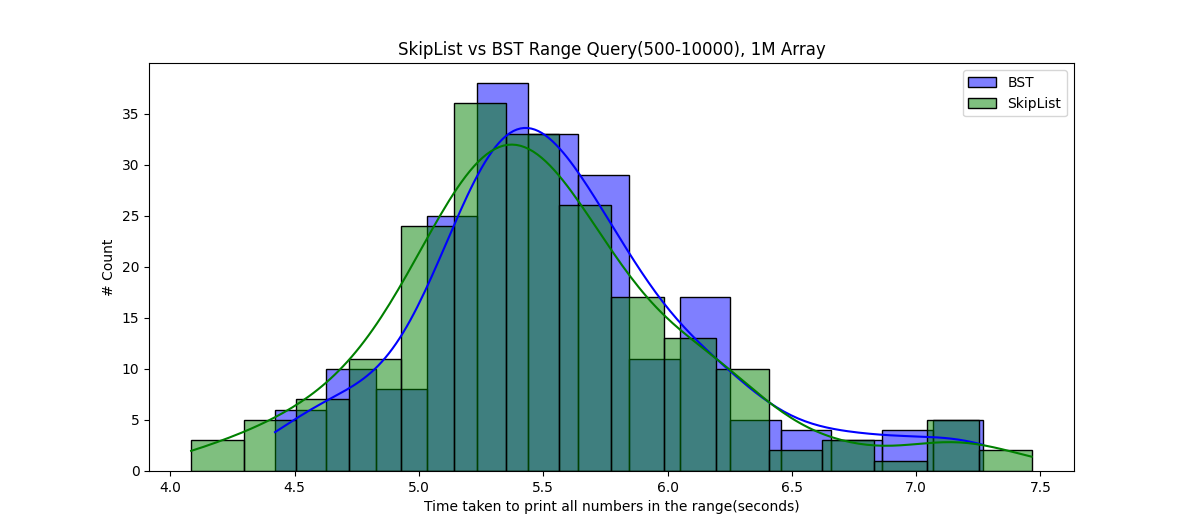
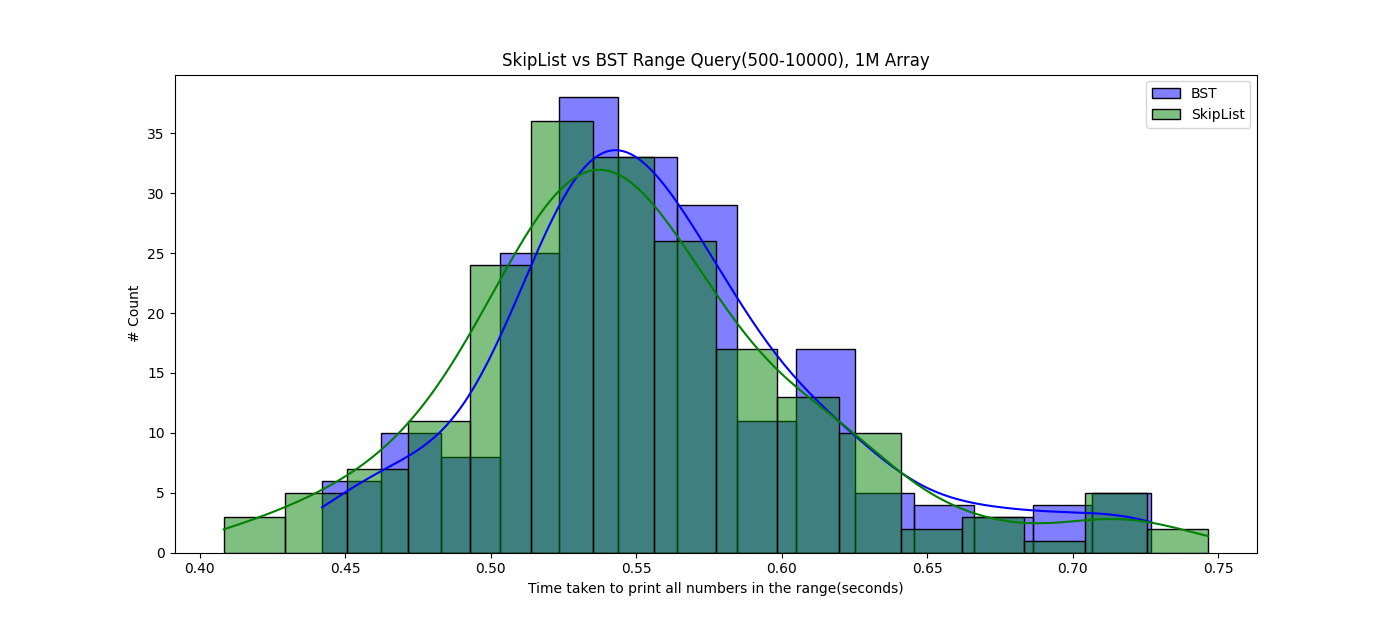
range query updated to division by 1e9 instead of 1e8(nanoseconds -> seconds)

diff --git a/SkipLists/statistical_analysis/analyze_range_query.py b/SkipLists/statistical_analysis/analyze_range_query.py
@@ -27,8 +27,8 @@ def get_times(range_query_bst_path: str, range_query_sl_path: str):
     sl_left, sl_right = sl_mean - sl_std * 3, sl_mean + sl_std * 3
 
     # Filter out the values
-    bst_times = [i / 1e8 for i in bst_times if i > bst_left and i < bst_right]
-    sl_times = [i / 1e8 for i in sl_times if i > sl_left and i < sl_right]
+    bst_times = [i / 1e9 for i in bst_times if i > bst_left and i < bst_right]
+    sl_times = [i / 1e9 for i in sl_times if i > sl_left and i < sl_right]
     return bst_times, sl_times
 
 def plot_times(bst_times, sl_times):
